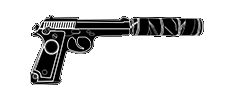
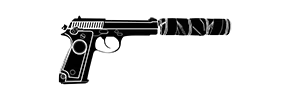
idk man css sucks

Changed region(s): [[0.112, 0.15, 0.84, 0.87]]

diff --git a/r6x-randomizer/src/App.css b/r6x-randomizer/src/App.css
@@ -309,6 +309,16 @@
   filter: drop-shadow(0 2px 4px rgba(0, 0, 0, 0.1));
 }
 
+/* Override weapon-image for shields */
+.weapon-image.weapon-shield {
+  width: auto !important;
+  height: auto !important;
+  max-width: 420px !important;
+  max-height: 220px !important;
+  top: 1rem !important;
+  right: 2rem !important;
+}
+
 .weapon-name {
   font-weight: 600;
   color: white;
@@ -398,21 +408,64 @@
   max-height: 100px;
 }
 
-/* Shield image sizing */
-.weapon-shield {
-  max-width: 120px;
-  max-height: 120px;
+.gadget-Observation_Blocker {
+  max-width: 150px;
+  max-height: 100px;
+  margin-top: 0.6rem;
+  margin-right: -1.2rem;
 }
 
-.gadget-shield {
+.gadget-Nitro_Cell {
+  margin-right: 1.2rem;
+}
+
+.gadget-Bulletproof_Camera {
   max-width: 100px;
-  max-height: 100px;
+}
+
+/* Shield image sizing */
+.weapon-shield {
+  max-width: 420px !important;
+  max-height: 220px !important;
+  width: auto !important;
+  height: auto !important;
+  flex-shrink: 0;
+  object-fit: contain;
+  margin-right: -4rem;
+}
+
+
+.gadget-shield {
+  max-width: 100px !important;
+  max-height: 100px !important;
+  width: auto !important;
+  height: auto !important;
+  margin-right: -4rem;
 }
 
 /* Specific shield types */
 .weapon-ballistic-shield {
-  max-width: 140px;
-  max-height: 140px;
+  max-width: 140px !important;
+  max-height: 140px !important;
+  width: auto !important;
+  height: auto !important;
+  margin-right: -4rem;
+}
+
+.weapon-image.g52-tactical-shield {
+  max-width: 420px !important;
+  max-height: 220px !important;
+  width: auto !important;
+  height: auto !important;
+  margin-right: 6rem;
+}
+
+.weapon-shield.shield-Ballistic_Shield {
+  max-width: 420px !important;
+  max-height: 220px !important;
+  width: auto !important;
+  height: auto !important;
+  margin-right: -1.2rem;
 }
 
 @media (max-width: 768px) {

diff --git a/r6x-randomizer/src/App.js b/r6x-randomizer/src/App.js
@@ -551,7 +551,10 @@ function App() {
                       <img 
                         src={getGadgetImage(selectedOp.selectedGadget)} 
                         alt={selectedOp.selectedGadget + ' image'} 
-                        className={`gadget-image ${selectedOp.selectedGadget === 'EMP Grenade' ? 'gadget-EMP' : ''} ${selectedOp.selectedGadget === 'Deployable Shield' ? 'gadget-shield' : ''}`}
+                        className={`gadget-image ${selectedOp.selectedGadget === 'EMP Grenade' ? 'gadget-EMP' : ''} ${selectedOp.selectedGadget === 'Deployable Shield' ? 'gadget-shield' : ''} ${selectedOp.selectedGadget === 'Observation Blocker' ? 'gadget-Observation_Blocker' : ''} 
+                        ${selectedOp.selectedGadget === 'Nitro Cell' ? 'gadget-Nitro_Cell' : ''} ${selectedOp.selectedGadget === 'Bulletproof Camera' ? 'gadget-Bulletproof_Camera' : ''} 
+                        ${selectedOp.selectedGadget === 'Ballistic Shield' ? 'shield-Ballistic_Shield' : ''} ${selectedOp.selectedGadget === 'G52-Tactical Shield' ? 'shield-g52-tactical-shield' : ''}`}
+                        
                       />
                     )}
                     <span className="gadget-name">{selectedOp.selectedGadget}</span>

diff --git a/r6x-randomizer/src/operatorMetadata.js b/r6x-randomizer/src/operatorMetadata.js
@@ -239,7 +239,7 @@ const weaponImageMap = {
   "Bearing 9": `${process.env.PUBLIC_URL}/assets/weapons/R6S_wpn_BEARING_9.png`,
   "M1911": `${process.env.PUBLIC_URL}/assets/weapons/R6S_wpn_M1911.png`,
   ".44 VENDETTA": `${process.env.PUBLIC_URL}/assets/weapons/R6S_wpn_.44_Mag_Semi-Auto.png`,
-  "GHS-18": `${process.env.PUBLIC_URL}/assets/weapons/R6S_wpn_GHS-18.png`,
+  "GHS-18": `${process.env.PUBLIC_URL}/assets/weapons/R6S_wpn_GSH-18.png`,
   "Reaper MK2": `${process.env.PUBLIC_URL}/assets/weapons/R6S_wpn_Reaper_MK2.png`,
   
   // Defender Secondary Weapons
